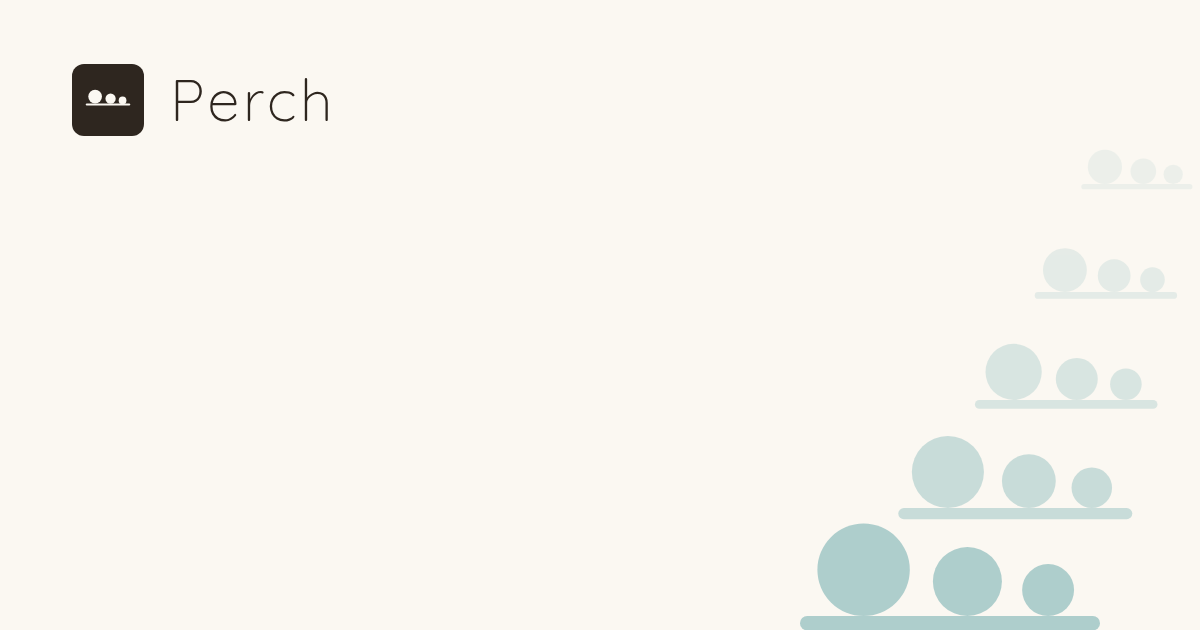
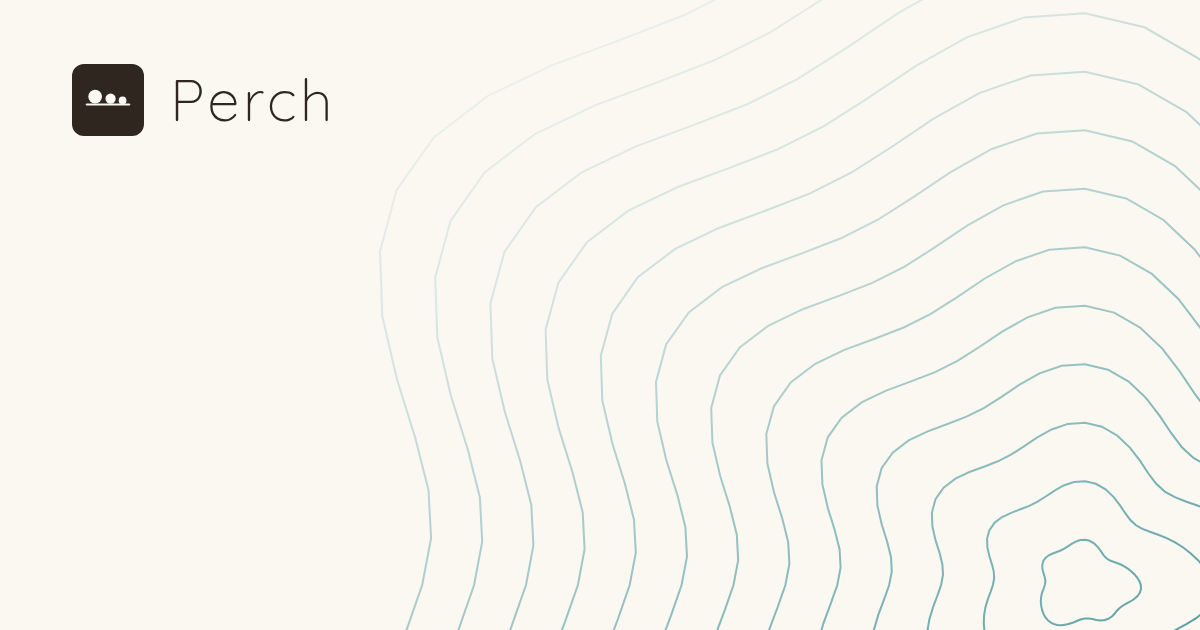
feat(brand): redraw the social card motif as topographic contours
Tiling the mark across the card made it state the same shape twice while
saying nothing about what the product is for. Contours read as map, terrain
and route at a glance, and they are the field-guide direction made literal
rather than decoration borrowed to fill space.

Two other motifs were drawn and rejected: a route polyline with stops and a
lat/long graticule. Both descend monotonically left to right, so both read
as a falling line chart rather than a journey.

Claude-Session: https://claude.ai/code/session_01BemFpMNNau3HuGFV6AzSEp

diff --git a/docs/DESIGN.md b/docs/DESIGN.md
@@ -169,7 +169,7 @@ receding behind it. Same sentence as the product, pressed rather than drawn.
 | **Colour**      | Two values, never three. The lead disc takes no tint: its size already ranks it                                                                                                                                                                                                     |
 | **Floor**       | 16px. Below that the third disc is dropped rather than the whole mark scaled down                                                                                                                                                                                                   |
 | **Favicon**     | `v2/public/favicon.svg`, which swaps plate and drawing on `prefers-color-scheme` so the tab reads on either browser chrome. `favicon-32.png` / `favicon-16.png` are the raster fallback, `apple-touch-icon.png` sets the mark on paper with margin because iOS applies its own mask |
-| **Social card** | `v2/public/assets/og-banner.png`, 1200×630. Lockup top left, and the motif — the bar with three discs — repeated at decreasing size and opacity out of the bottom right corner, climbing diagonally                                                                                 |
+| **Social card** | `v2/public/assets/og-banner.png`, 1200×630. Lockup top left on empty paper; the rest is a topographic contour set around one summit off the bottom right corner, masked by a diagonal fade so it thins to nothing before it reaches the lockup                                      |
 
 **Why This One, Out Of Five.** Five marks were drawn against the same sentence, each taking one principle: 家紋 _kamon_
 the crest, 間 _ma_ the empty seat, 円相 _ensō_ the open ring, 判子 _hanko_ the seal, and メリハリ _merihari_ the
@@ -177,6 +177,10 @@ half-step. Each was then re-rendered at 48, 24 and 16px on paper and reversed on
 one that survives both the 16px column and the ink plate** — every mark carrying a hairline ring loses the ring in each.
 The comparison sheet is the `Brand — Logo And Typeface` frame in the
 [Visual Mockups file](https://www.figma.com/design/lei5YdT1r8Dky1QjfwZGfY/Perch---Visual-Mockups).
+
+**The social card does not repeat the mark.** An early version tiled the bar and discs across it, which made the card
+state the same shape twice while saying nothing about what the product is for. Contours read as map, terrain and route
+at a glance, and they are the field-guide direction made literal rather than decoration borrowed to fill space.
 
 **None of the five is a bird, a torii or a kanji radical**, which are the three ways this brief goes wrong. Japanese
 design supplies the method here and not the motifs, which is the translation rule study 07 sets out.
